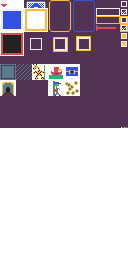
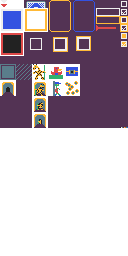
first pass at victory screen

Changed region(s): [[0.25, 0.3125, 0.375, 0.5]]

diff --git a/libs/game/src/game.rs b/libs/game/src/game.rs
@@ -284,12 +284,23 @@ pub mod config {
 pub use config::{Config, EntityDef, EntityDefFlags, TileFlags, COLLECTABLE, STEPPABLE, VICTORY};
 
 pub fn to_entity(def: &EntityDef, x: X, y: Y) -> Entity {
+    let mut flags = 0;
+
+    if def.flags & config::COLLECTABLE == config::COLLECTABLE {
+        flags |= models::COLLECTABLE;
+    }
+
+    if def.flags & config::VICTORY == config::VICTORY {
+        flags |= models::VICTORY;
+    }
+
     Entity::new(
         x,
         y,
         def.tile_sprite,
         def.id,
-        def.wants.iter().map(|&def_id| models::Desire::new(def_id)).collect()
+        def.wants.iter().map(|&def_id| models::Desire::new(def_id)).collect(),
+        flags,
     )
 }
 
@@ -457,13 +468,13 @@ pub struct World {
     /// The ID of the current segment we are in.
     pub segment_id: SegmentId,
     pub player: Entity,
-    pub items: Entities,
+    pub steppables: Entities,
     pub mobs: Entities,
 }
 
 impl World {
     pub fn all_entities_mut(&mut self) -> impl Iterator<Item = &mut Entity> {
-        std::iter::once(&mut self.player).chain(self.items.all_entities_mut().chain(self.mobs.all_entities_mut()))
+        std::iter::once(&mut self.player).chain(self.steppables.all_entities_mut().chain(self.mobs.all_entities_mut()))
     }
 
     pub fn get_entity(&self, key: entities::Key) -> Option<&Entity> {
@@ -477,7 +488,7 @@ impl World {
             return Some(&self.player)
         }
 
-        self.mobs.get(key).or_else(|| self.items.get(key))
+        self.mobs.get(key).or_else(|| self.steppables.get(key))
     }
 
     pub fn get_entity_mut(&mut self, key: entities::Key) -> Option<&mut Entity> {
@@ -491,7 +502,7 @@ impl World {
             return Some(&mut self.player)
         }
 
-        self.mobs.get_mut(key).or_else(|| self.items.get_mut(key))
+        self.mobs.get_mut(key).or_else(|| self.steppables.get_mut(key))
     }
 }
 
@@ -564,6 +575,7 @@ pub enum Mode {
         description_talking: Option<TalkingState>,
     },
     Talking(TalkingState),
+    Victory(DoorAnimation),
 }
 
 /// 64k fade frames ought to be enough for anybody!
@@ -592,6 +604,31 @@ impl FadeMessage {
 
 // TODO? Put a hard limit on the amount of these, with I guess LIFO eviction?
 pub type FadeMessages = Vec<FadeMessage>;
+
+#[derive(Clone, Debug, Default, PartialEq, Eq)]
+pub struct DoorAnimation {
+    frame: u16
+}
+
+impl DoorAnimation {
+    pub fn advance_frame(&mut self) {
+        self.frame = self.frame.saturating_add(1);
+    }
+
+    pub fn is_done(&self) -> bool {
+        self.frame >= 150
+    }
+
+    // TODO: reference the config file somehow to determine this.
+    //     Probably copy the frames somewhere, instead of referencing it every frame
+    pub fn sprite(&self) -> models::TileSprite {
+        match self.frame {
+            x if x < 50 => models::DOOR_ANIMATION_FRAME_1,
+            x if x < 100 => models::DOOR_ANIMATION_FRAME_2,
+            _ => models::DOOR_ANIMATION_FRAME_3,
+        }
+    }
+}
 
 #[derive(Clone, Default)]
 pub struct State {
@@ -671,7 +708,7 @@ impl State {
             player,
             segment_id: segment.id,
             segment,
-            items: <_>::default(),
+            steppables: <_>::default(),
             mobs: <_>::default(),
         };
 
@@ -767,7 +804,7 @@ impl State {
                 &placed_already,
             ).ok_or(Error::CannotPlaceDoor)?;
     
-            world.mobs.insert(
+            world.steppables.insert(
                 first_segment.id,
                 to_entity(door_def, d_xy.x, d_xy.y),
             );
@@ -837,7 +874,7 @@ impl State {
                             to_entity(&desire.mob_def, npc_xy.x, npc_xy.y),
                         );
 
-                        world.items.insert(
+                        world.steppables.insert(
                             first_segment.id,
                             to_entity(&desire.item_def, item_xy.x, item_xy.y),
                         );
@@ -913,12 +950,18 @@ impl State {
 
             let key = entity_key(self.world.segment_id, self.world.player.x, self.world.player.y);
 
-            if let Some(item) = self.world.items.remove(key) {
-                // Mostly for testing putposes until we get to combat or other things that make sense to cause 
+            if let Some(steppable) = self.world.steppables.remove(key) {
+                // Mostly for testing purposes until we get to combat or other things that make sense to cause 
                 // screenshake
                 self.shake_amount = 5;
 
-                self.player_inventory.push(item);
+                if steppable.is_collectable() {
+                    self.player_inventory.push(steppable);
+                } else if steppable.is_victory() {
+                    self.mode = Mode::Victory(<_>::default());
+                } else {
+                    // Effectively just disappearing scenery. Could make this not go away if we have a reason to.
+                }
             }
         }
     }
@@ -972,6 +1015,15 @@ impl State {
     }
 
     pub fn tick(&mut self) {
+        match &mut self.mode {
+            Mode::Victory(animation) => {
+                animation.advance_frame();
+            },
+            Mode::Walking => { /* fall through to rest of method */ }
+            Mode::Inventory { .. }
+            | Mode::Talking(..) => return,
+        }
+
         if ! matches!(self.mode, Mode::Walking) {
             return
         }

diff --git a/libs/app/src/app.rs b/libs/app/src/app.rs
@@ -239,6 +239,14 @@ fn game_update(state: &mut game::State, input: Input, _speaker: &mut Speaker) {
     state.tick();
 
     match &mut state.mode {
+        Mode::Victory(animation) => {
+            if animation.is_done() {
+                // Do we want to do something else here? Back to a main menu?
+                if input.pressed_this_frame(Button::START) {
+                    *animation = <_>::default();
+                }
+            }
+        },
         Mode::Walking => {
             if input.pressed_this_frame(Button::START) {
                 state.mode = Mode::Inventory { 
@@ -368,7 +376,6 @@ fn game_update(state: &mut game::State, input: Input, _speaker: &mut Speaker) {
                                 if let Some(recieveing_entity) = state.world.get_entity_mut(entity_key) {
                                     for desire in &mut recieveing_entity.desires {
                                         if desire.def_id == def_id {
-                                            dbg!(entity_key);
                                             desire.state = models::DesireState::Satisfied;
                                             break
                                         }
@@ -416,14 +423,6 @@ fn game_render(commands: &mut Commands, state: &game::State) {
         );
     }
 
-    for i in 0..state.world.segment.tiles.len() {
-        draw_tile(
-            commands,
-            i_to_xy(state.world.segment.width, i),
-            state.world.segment.tiles[i].sprite,
-        );
-    }
-
     fn draw_entity(commands: &mut Commands, entity: &Entity) {
         commands.sspr(
             to_tile::sprite_xy(entity.sprite),
@@ -431,23 +430,37 @@ fn game_render(commands: &mut Commands, state: &game::State) {
         );
     }
 
-    for (_, item) in state.world.items.for_id(state.world.segment_id) {
-        draw_entity(commands, item);
+    fn render_world(commands: &mut Commands, state: &game::State) {
+        for i in 0..state.world.segment.tiles.len() {
+            draw_tile(
+                commands,
+                i_to_xy(state.world.segment.width, i),
+                state.world.segment.tiles[i].sprite,
+            );
+        }
+
+        for (_, steppable) in state.world.steppables.for_id(state.world.segment_id) {
+            draw_entity(commands, steppable);
+        }
+    
+        for (_, mob) in state.world.mobs.for_id(state.world.segment_id) {
+            draw_entity(commands, mob);
+        }
     }
 
-    for (_, mob) in state.world.mobs.for_id(state.world.segment_id) {
-        draw_entity(commands, mob);
-    }
+    fn render_walking(commands: &mut Commands, state: &game::State) {
+        render_world(commands, state);
 
-    draw_entity(commands, &state.world.player);
-
-    for message in &state.fade_messages {
-        commands.print_lines(
-            message.xy,
-            0,
-            message.text.as_bytes(),
-            6,
-        );
+        draw_entity(commands, &state.world.player);
+    
+        for message in &state.fade_messages {
+            commands.print_lines(
+                message.xy,
+                0,
+                message.text.as_bytes(),
+                6,
+            );
+        }
     }
 
     //
@@ -455,14 +468,42 @@ fn game_render(commands: &mut Commands, state: &game::State) {
     //
 
     match &state.mode {
+        Mode::Victory(animation) => {
+            if animation.is_done() {
+                commands.print_lines(
+                    unscaled::XY {
+                        x: unscaled::X(100),
+                        y: unscaled::Y(50),
+                    },
+                    0,
+                    // TODO Get this text from the config file
+                    b"congraturation\n\nthis story is happy end",
+                    6,
+                );
+                draw_tile_sprite(
+                    commands,
+                    // TODO Put this in the config file. Maybe allow defining any number of sprites to be drawn?
+                    unscaled::XY {
+                        x: unscaled::X(200),
+                        y: unscaled::Y(150),
+                    },
+                    state.world.player.sprite
+                );
+            } else {
+                render_world(commands, state);
+                draw_tile(commands, state.world.player.xy(), animation.sprite());
+            }
+        },
         Mode::Walking => {
-            // Nothing yet
+            render_walking(commands, state);
         },
         Mode::Inventory {
             current_index,
             description_talking,
             ..
         } => {
+            render_walking(commands, state);
+
             const SPACING: unscaled::Inner = 20;
 
             let outer_rect = unscaled::Rect {
@@ -527,6 +568,8 @@ fn game_render(commands: &mut Commands, state: &game::State) {
             }
         },
         Mode::Talking(talking) => {
+            render_walking(commands, state);
+
             draw_talking(commands, &state.speeches, talking);
         },
     }

diff --git a/libs/models/src/models.rs b/libs/models/src/models.rs
@@ -8,8 +8,10 @@ pub type TileSprite = u8;
 pub const WALL_SPRITE: TileSprite = 0;
 pub const FLOOR_SPRITE: TileSprite = 1;
 pub const PLAYER_SPRITE: TileSprite = 2;
-pub const NPC_SPRITE: TileSprite = 3;
-pub const ITEM_SPRITE: TileSprite = 4;
+pub const DOOR_ANIMATION_FRAME_1: TileSprite = 10;
+pub const DOOR_ANIMATION_FRAME_2: TileSprite = DOOR_ANIMATION_FRAME_1 + 8;
+pub const DOOR_ANIMATION_FRAME_3: TileSprite = DOOR_ANIMATION_FRAME_2 + 8;
+
 
 /// An amount of screenshake to render with.
 pub type ShakeAmount = u8;
@@ -84,6 +86,11 @@ impl Desire {
 
 pub type Desires = Vec<Desire>;
 
+pub type EntityFlags = u8;
+
+pub const COLLECTABLE: EntityFlags = 1 << 0;
+pub const VICTORY: EntityFlags = 1 << 1;
+
 // Fat-struct for entities! Fat-struct for entities!
 #[derive(Clone, Default, Debug)]
 pub struct Entity {
@@ -94,6 +101,7 @@ pub struct Entity {
     pub sprite: TileSprite,
     pub def_id: DefId,
     pub desires: Desires,
+    pub flags: EntityFlags
 }
 
 impl Entity {
@@ -103,6 +111,7 @@ impl Entity {
         sprite: TileSprite,
         def_id: DefId,
         desires: Desires,
+        flags: EntityFlags,
     ) -> Self {
         Self {
             x,
@@ -110,6 +119,7 @@ impl Entity {
             sprite,
             def_id,
             desires,
+            flags,
             ..<_>::default()
         }
     }
@@ -136,6 +146,14 @@ impl Entity {
             state: current_speeches_state,
         }
     }
+
+    pub fn is_collectable(&self) -> bool {
+        self.flags & COLLECTABLE == COLLECTABLE
+    }
+
+    pub fn is_victory(&self) -> bool {
+        self.flags & VICTORY == VICTORY
+    }
 }
 
 /// Returns a phrase like "a thing" or "an entity".
@@ -144,8 +162,6 @@ pub fn entity_article_phrase(entity: &Entity) -> &str {
         WALL_SPRITE => "a wall",
         FLOOR_SPRITE => "a floor",
         PLAYER_SPRITE => "a me(?!)",
-        NPC_SPRITE => "a person",
-        ITEM_SPRITE => "an item",
         _ => "a whatever-this-is",
     }
 }

diff --git a/libs/config/src/config.rs b/libs/config/src/config.rs
@@ -155,7 +155,7 @@ fn init_engine() -> Engine {
         fn item(n) {{
             tile_sprite_n_at_offset(n, 4)
         }}
-        // TODO: Define walls, floor, and player here too
+        // TODO: Define walls, floor, door animation, and player here too
 
         export const OPEN_DOOR = tile_sprite_n_at_offset(1, 0);
     "#);
